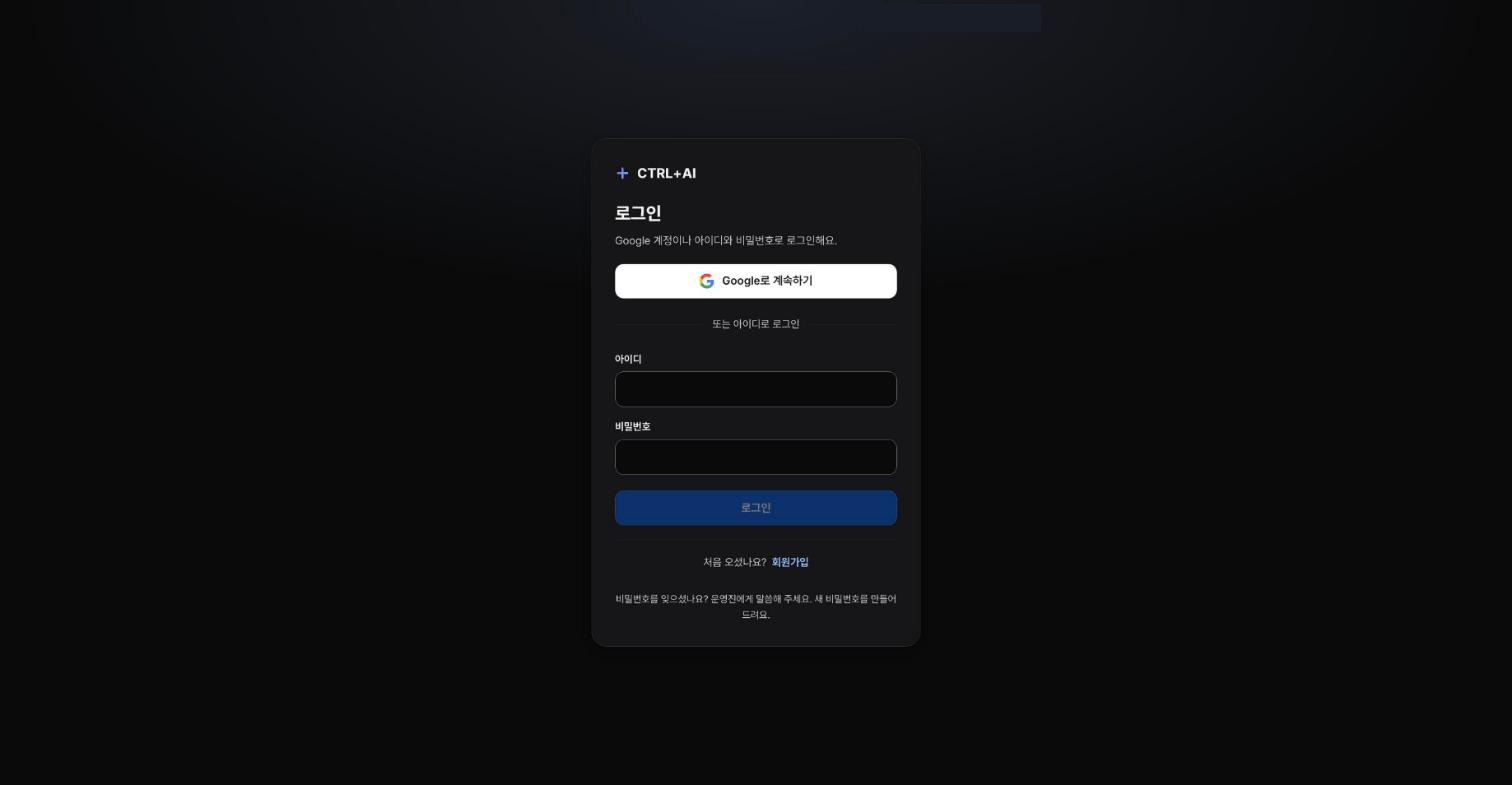
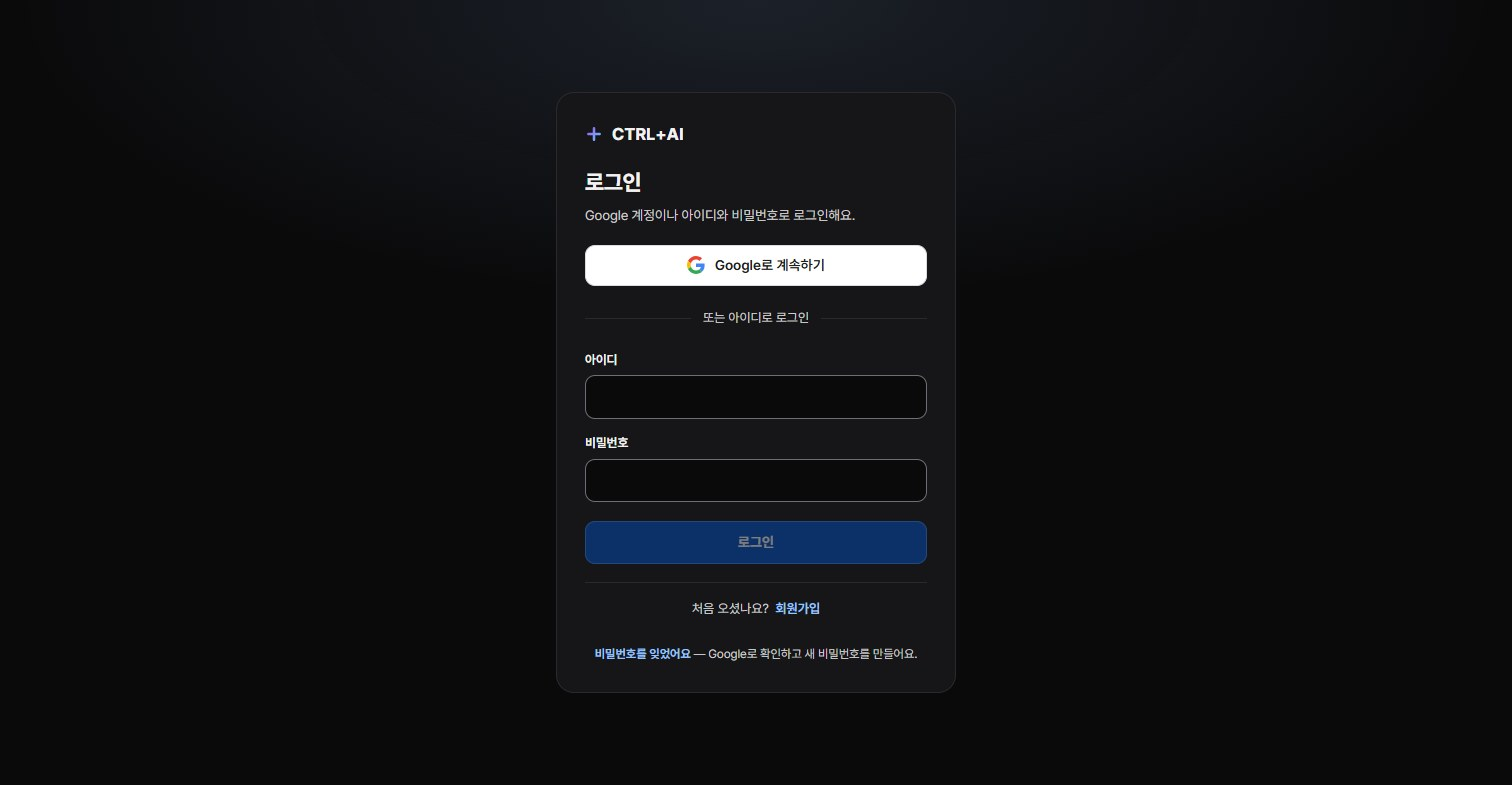
docs: first-meeting presentation — re-record sign-up for the Google-only flow
Sign-up became Google only (signup-google-first, merged 2026-11-03) after
the screens were recorded, so the 시작하기 scenes showed a form that no
longer exists. Re-recorded on the local copy: s01 (login, with
비밀번호를 잊었어요), s02 (가입 — Google로 계속하기 only), new s03a/s03
(거의 다 됐어요: 아이디, 이름, 비밀번호 twice, 초대 코드 pre-filled).
The 0:20–1:05 script, the sign-up GIF's first frames and both READMEs
follow.

diff --git a/docs/first-meeting/presentation/index.html b/docs/first-meeting/presentation/index.html
@@ -178,7 +178,7 @@ button:focus-visible { outline: 2px solid var(--accent); outline-offset: 2px; }
 
   <div id="gifView" hidden>
     <div class="gifs">
-      <figure><img src="v2/gif/0-signup-join.gif" alt="가입하고 분기에 참여하는 움짤"><figcaption><b>0. 가입 → 분기 참여 → 승인 → 80,000원</b>노란 테두리가 누를 곳이에요.</figcaption></figure>
+      <figure><img src="v2/gif/0-signup-join.gif" alt="가입하고 분기에 참여하는 움짤"><figcaption><b>0. Google로 가입 → 분기 참여 → 승인 → 80,000원</b>노란 테두리가 누를 곳이에요.</figcaption></figure>
       <figure><img src="v2/gif/1-chat-question.gif" alt="Chat에 요청하고 답이 써지는 움짤"><figcaption><b>1. Chat에 한 줄</b>답이 써지고, 든 돈이 원 단위로 보여요.</figcaption></figure>
       <figure><img src="v2/gif/2-chat-preview-refine.gif" alt="Chat에서 미리보기를 열고 다듬는 움짤"><figcaption><b>2. 미리보기 → 말로 다듬기</b>오른쪽에서 바로 눌러 보고, 고쳐 달라고 하면 새 버전.</figcaption></figure>
       <figure><img src="v2/gif/3-builder.gif" alt="Builder로 보내 AI 버튼을 넣는 움짤"><figcaption><b>3. Builder로 보내기</b>지도와 ✦ AI 버튼이 붙은 진짜 앱.</figcaption></figure>
@@ -191,7 +191,7 @@ button:focus-visible { outline: 2px solid var(--accent); outline-offset: 2px; }
     <div class="script">
       <p class="note">5분 분량 · 화면 탭 순서대로 「시작하기」 → 「채팅에서 앱까지」 → 「남이 만든 앱의 AI」 → 「화면 둘러보기」. 화면에는 짧은 제목만 있고, 설명은 전부 여기 있어요.</p>
       <section><div class="t">0:00–0:20</div><div><h3>인사</h3><p>안녕하세요. 오늘은 앞으로 같이 쓸 CTRL+AI를 5분 동안 실제 화면으로 보여드릴게요. 한 줄로 말하면, 하고 싶은 걸 한국어로 말하면 CTRL+AI가 만들어 주고, 그걸 다 같이 나누는 곳이에요. 코딩도, API 키도, 개발 환경도 몰라도 됩니다. 오늘은 가입부터 앱을 만들고 남의 앱을 써 보는 데까지, 여러분이 실제로 하게 될 순서 그대로 갈게요.</p></div></section>
-      <section><div class="t">0:20–1:05</div><div><h3>가입하고 이번 분기에 참여하기</h3><p>먼저 가입이에요. 제가 보내 드리는 초대 링크로 들어가면 가입 화면이 나와요. 노란 테두리 보세요. 초대 코드는 링크에 이미 들어 있고, 아이디·이름·이메일·비밀번호만 적으면 끝이에요. Google 계정으로 들어와도 돼요. 들어오면 처음 안내가 다섯 장 떠요. 건너뛰어도 되고, 나중에 다시 볼 수도 있어요.</p><p>그런데 가입만 하면 채팅이 아직 잠겨 있어요. 보시면 "이번 분기에 참여하지 않아…"라고 나오죠. 여기 「Profile에서 참여 신청하기」를 누르거나 Profile로 가서, 이 파란 버튼 「이번 분기 참여」를 누르세요. 그러면 「승인 대기」가 되고, 제가 운영진 화면에서 「승인」을 누르면 — 바로 이 화면이에요 — 여러분 Profile에 동아리 지원 80,000원이 생겨요. 분기마다 한 번씩, 이 8만 원 안에서 채팅이든 앱 만들기든 전부 쓰고, 개인 돈은 안 들어요. 다 쓰면 그 분기는 거기까지예요.</p><p class="cue">화면: 「시작하기」 탭 1 가입 → 2 처음 안내 → 3 분기 참여 → 4 운영진 승인 → 5 지원금</p></div></section>
+      <section><div class="t">0:20–1:05</div><div><h3>가입하고 이번 분기에 참여하기</h3><p>먼저 가입이에요. 제가 보내 드리는 초대 링크로 들어가면 가입 화면이 나와요. 가입은 Google 계정으로만 해요. 노란 테두리 「Google로 계속하기」를 누르고 평소 쓰는 Google 계정을 고르세요. 그러면 「거의 다 됐어요」 화면으로 돌아와요. 여기서 CTRL+AI에서 쓸 아이디와 이름, 그리고 비밀번호를 두 번 적어요. 초대 코드는 링크에 들어 있어서 이미 채워져 있어요. 이렇게 해 두면 다음부터는 Google로도, 아이디·비밀번호로도 로그인할 수 있어요. 비밀번호를 잊으면 로그인 화면의 「비밀번호를 잊었어요」를 누르고 Google로 확인하면 새로 만들 수 있어요. 가입하면 처음 안내가 다섯 장 떠요. 건너뛰어도 되고, 나중에 다시 볼 수도 있어요.</p><p>그런데 가입만 하면 채팅이 아직 잠겨 있어요. 보시면 "이번 분기에 참여하지 않아…"라고 나오죠. 여기 「Profile에서 참여 신청하기」를 누르거나 Profile로 가서, 이 파란 버튼 「이번 분기 참여」를 누르세요. 그러면 「승인 대기」가 되고, 제가 운영진 화면에서 「승인」을 누르면 — 바로 이 화면이에요 — 여러분 Profile에 동아리 지원 80,000원이 생겨요. 분기마다 한 번씩, 이 8만 원 안에서 채팅이든 앱 만들기든 전부 쓰고, 개인 돈은 안 들어요. 다 쓰면 그 분기는 거기까지예요.</p><p class="cue">화면: 「시작하기」 탭 1 가입(로그인 → Google로 계속하기 → 거의 다 됐어요) → 2 처음 안내 → 3 분기 참여 → 4 운영진 승인 → 5 지원금</p></div></section>
       <section><div class="t">1:05–1:30</div><div><h3>Chat의 옵션</h3><p>승인되면 첫 화면이 Chat이에요. 입력창 아래 「균형 잡힌 답변」을 누르면 모델을 고를 수 있어요. 빠른 답변, 균형 잡힌 답변, 깊이 있는 답변 세 가지이고, 생각 깊이도 조절돼요. 한 번에 약 얼마인지가 고르기 전에 적혀 있으니까, 그냥 기본인 균형 잡힌 답변으로 쓰시면 돼요. 옆에 「도구」에는 생각 과정 보기, 웹 사용, 코드 실행이 있어요. 생각 과정 보기를 켜면 Claude가 어떤 순서로 생각했는지 답 아래에서 펼쳐 볼 수 있어요.</p><p class="cue">화면: 「화면 둘러보기」 탭 1 Chat 옵션</p></div></section>
       <section><div class="t">1:30–2:15</div><div><h3>Chat에 한 줄, 바로 미리보기</h3><p>이제 진짜 만들어 볼게요. 저는 "주말 여행지 탐색기 만들어 줘. 장소를 치면 지도, 이번 주말 날씨, 위키백과 소개, 사진까지"라고만 썼어요. 답이 실시간으로 써지고, 아래에 지금까지 든 돈이 원 단위로 계속 보여요. 이 답 하나에 79원이에요. 답 안에 「주말 여행지 탐색기 · HTML 페이지」 카드가 생기는데, 누르면 오른쪽에 미리보기가 바로 열려요. 채팅을 보면서 옆에서 눌러 볼 수 있어요. 날씨는 진짜 이번 주말 예보고, 사진과 소개는 위키백과에서 그때그때 가져온 거예요. 인터넷에서 가져오는 것도 되고, AI를 붙이는 것도 된다는 거죠.</p><p class="cue">화면: 「채팅에서 앱까지」 탭 1 물어보기 → 2 미리보기</p></div></section>
       <section><div class="t">2:15–2:45</div><div><h3>말로 다듬기</h3><p>마음에 안 드는 건 그냥 말로 고쳐요. "지도가 안 나와, 고쳐 주고, 별을 누르면 즐겨찾기 되게 해 줘." 그러면 무엇을 바꿨는지 먼저 설명하고 새 버전을 만들어요. 이번엔 124원. 새 버전을 열면 아래에 「내 즐겨찾기」가 생겼죠. 이렇게 채팅에서 몇 번 주고받으면서 최종본을 만들어요. 코드는 한 줄도 안 봐도 돼요.</p><p class="cue">화면: 3 다듬기</p></div></section>
@@ -209,9 +209,10 @@ const C = "/", B = "/builder/30", A = "/ctrlaistore/7x2qn76s4r";
 const TRACKS = {
   start: [
     { ch: "가입", items: [
-      ["s01", M, "/login", "로그인", "로그인 화면", "Google 또는 아이디·비밀번호"],
-      ["s02", S, "/signup", "가입", "초대 링크로 가입", ""],
-      ["s03", L, "/signup", "가입", "초대 코드 · 아이디 · 비밀번호", "노란 칸만 채우면 돼요"],
+      ["s01", M, "/login", "로그인", "로그인 화면", "Google 또는 아이디·비밀번호 · 「비밀번호를 잊었어요」"],
+      ["s02", L, "/signup", "가입", "초대 링크로 가입", "가입은 「Google로 계속하기」로만"],
+      ["s03a", M, "/signup/google", "가입", "Google에서 돌아오면 「거의 다 됐어요」", "아이디 · 이름"],
+      ["s03", L, "/signup/google", "가입", "비밀번호 두 번 · 초대 코드", "초대 코드는 링크에서 미리 채워져요"],
     ]},
     { ch: "처음 안내", items: [
       ["s04", S, "/", "Chat", "처음 안내 1/5", ""],

diff --git a/docs/first-meeting/presentation/script.md b/docs/first-meeting/presentation/script.md
@@ -8,11 +8,11 @@
 
 ## 0:20–1:05 · 가입하고 이번 분기에 참여하기
 
-먼저 가입이에요. 제가 보내 드리는 초대 링크로 들어가면 가입 화면이 나와요. 노란 테두리 보세요. 초대 코드는 링크에 이미 들어 있고, 아이디·이름·이메일·비밀번호만 적으면 끝이에요. Google 계정으로 들어와도 돼요. 들어오면 처음 안내가 다섯 장 떠요. 건너뛰어도 되고, 나중에 다시 볼 수도 있어요.
+먼저 가입이에요. 제가 보내 드리는 초대 링크로 들어가면 가입 화면이 나와요. 가입은 Google 계정으로만 해요. 노란 테두리 「Google로 계속하기」를 누르고 평소 쓰는 Google 계정을 고르세요. 그러면 「거의 다 됐어요」 화면으로 돌아와요. 여기서 CTRL+AI에서 쓸 아이디와 이름, 그리고 비밀번호를 두 번 적어요. 초대 코드는 링크에 들어 있어서 이미 채워져 있어요. 이렇게 해 두면 다음부터는 Google로도, 아이디·비밀번호로도 로그인할 수 있어요. 비밀번호를 잊으면 로그인 화면의 「비밀번호를 잊었어요」를 누르고 Google로 확인하면 새로 만들 수 있어요. 가입하면 처음 안내가 다섯 장 떠요. 건너뛰어도 되고, 나중에 다시 볼 수도 있어요.
 
 그런데 가입만 하면 채팅이 아직 잠겨 있어요. 보시면 "이번 분기에 참여하지 않아…"라고 나오죠. 여기 「Profile에서 참여 신청하기」를 누르거나 Profile로 가서, 이 파란 버튼 「이번 분기 참여」를 누르세요. 그러면 「승인 대기」가 되고, 제가 운영진 화면에서 「승인」을 누르면 — 바로 이 화면이에요 — 여러분 Profile에 동아리 지원 80,000원이 생겨요. 분기마다 한 번씩, 이 8만 원 안에서 채팅이든 앱 만들기든 전부 쓰고, 개인 돈은 안 들어요. 다 쓰면 그 분기는 거기까지예요.
 
-> 화면: 「시작하기」 탭 1 가입 → 2 처음 안내 → 3 분기 참여 → 4 운영진 승인 → 5 지원금
+> 화면: 「시작하기」 탭 1 가입(로그인 → Google로 계속하기 → 거의 다 됐어요) → 2 처음 안내 → 3 분기 참여 → 4 운영진 승인 → 5 지원금
 
 ## 1:05–1:30 · Chat의 옵션
 

diff --git a/docs/first-meeting/README.md b/docs/first-meeting/README.md
@@ -10,8 +10,10 @@ anoukkim, plus a local copy for the parts a signed-in member cannot
 replay), shown as a moving page in a Chrome-window frame with GIF clips.
 The clips follow one member's path:
 
-1. **Sign up and get in** — invite link → sign-up form (초대 코드, 아이디,
-   이름, 이메일, 비밀번호) → first-time guide (처음 안내).
+1. **Sign up and get in** — invite link → 「Google로 계속하기」 (sign-up is
+   Google only since 2026-11-03) → 거의 다 됐어요 (아이디, 이름, 비밀번호
+   twice, 초대 코드 pre-filled from the link) → first-time guide (처음 안내).
+   The login screen's 비밀번호를 잊었어요 is mentioned in passing.
 2. **Join the quarter** — Chat is locked until then ("Profile에서 참여
    신청하기") → Profile › 「이번 분기 참여」 → 승인 대기 → an admin approves
    in Admin › Members → the 80,000원 동아리 지원 wallet appears.
@@ -36,7 +38,7 @@ while recording are to be deleted afterwards.
 
 ## Recorded on the local copy (test data, not production)
 
-Signup, 처음 안내, 참여 신청, 승인 대기, the admin's 승인 dialog and invite
+Signup (re-recorded 2026-11-03 for the Google-only flow), 처음 안내, 참여 신청, 승인 대기, the admin's 승인 dialog and invite
 codes, the approved 80,000원 wallet, the account menu, and light-mode
 Profile and Chat. Caveats when showing them: the local screens carry a
 "테스트 모드 – 실제 AI 결과가 아닙니다" strip, and the local 신청 기간

diff --git a/docs/first-meeting/presentation/README.md b/docs/first-meeting/presentation/README.md
@@ -4,11 +4,19 @@ The presentation page for the first all-member meeting, copied from the
 Artifact "CTRL+AI 시연" (version 1793659542-0c83, 2026-11-02) so it can be
 opened on any computer.
 
+**Sign-up re-recorded 2026-11-03** (after `signup-google-first` went live):
+`s01` (login, with 비밀번호를 잊었어요), `s02` (sign-up is Google only),
+the new `s03a` and `s03` (the 거의 다 됐어요 setup screen: 아이디, 이름,
+비밀번호 twice, 초대 코드 pre-filled), the 대본 text for 0:20–1:05 and the
+first frames of `v2/gif/0-signup-join.gif`. Google's own account chooser is
+not shown (on the local copy it is a development mock). The published
+Artifact was updated to match.
+
 | File | What it is |
 | --- | --- |
 | `index.html` | The presentation: real ctrlai.my screens in a Chrome-window frame. Tabs 시작하기 · 채팅에서 앱까지 · 남이 만든 앱의 AI · 화면 둘러보기 · 움짤 · 대본 |
 | `script.md` | The 5-minute Korean script (same text as the page's 「대본」 tab) |
-| `v2/img/` | 55 screenshots the page plays |
+| `v2/img/` | 56 screenshots the page plays |
 | `v2/gif/` | 6 GIF clips (the 「움짤」 tab) |
 
 ## How to run it
